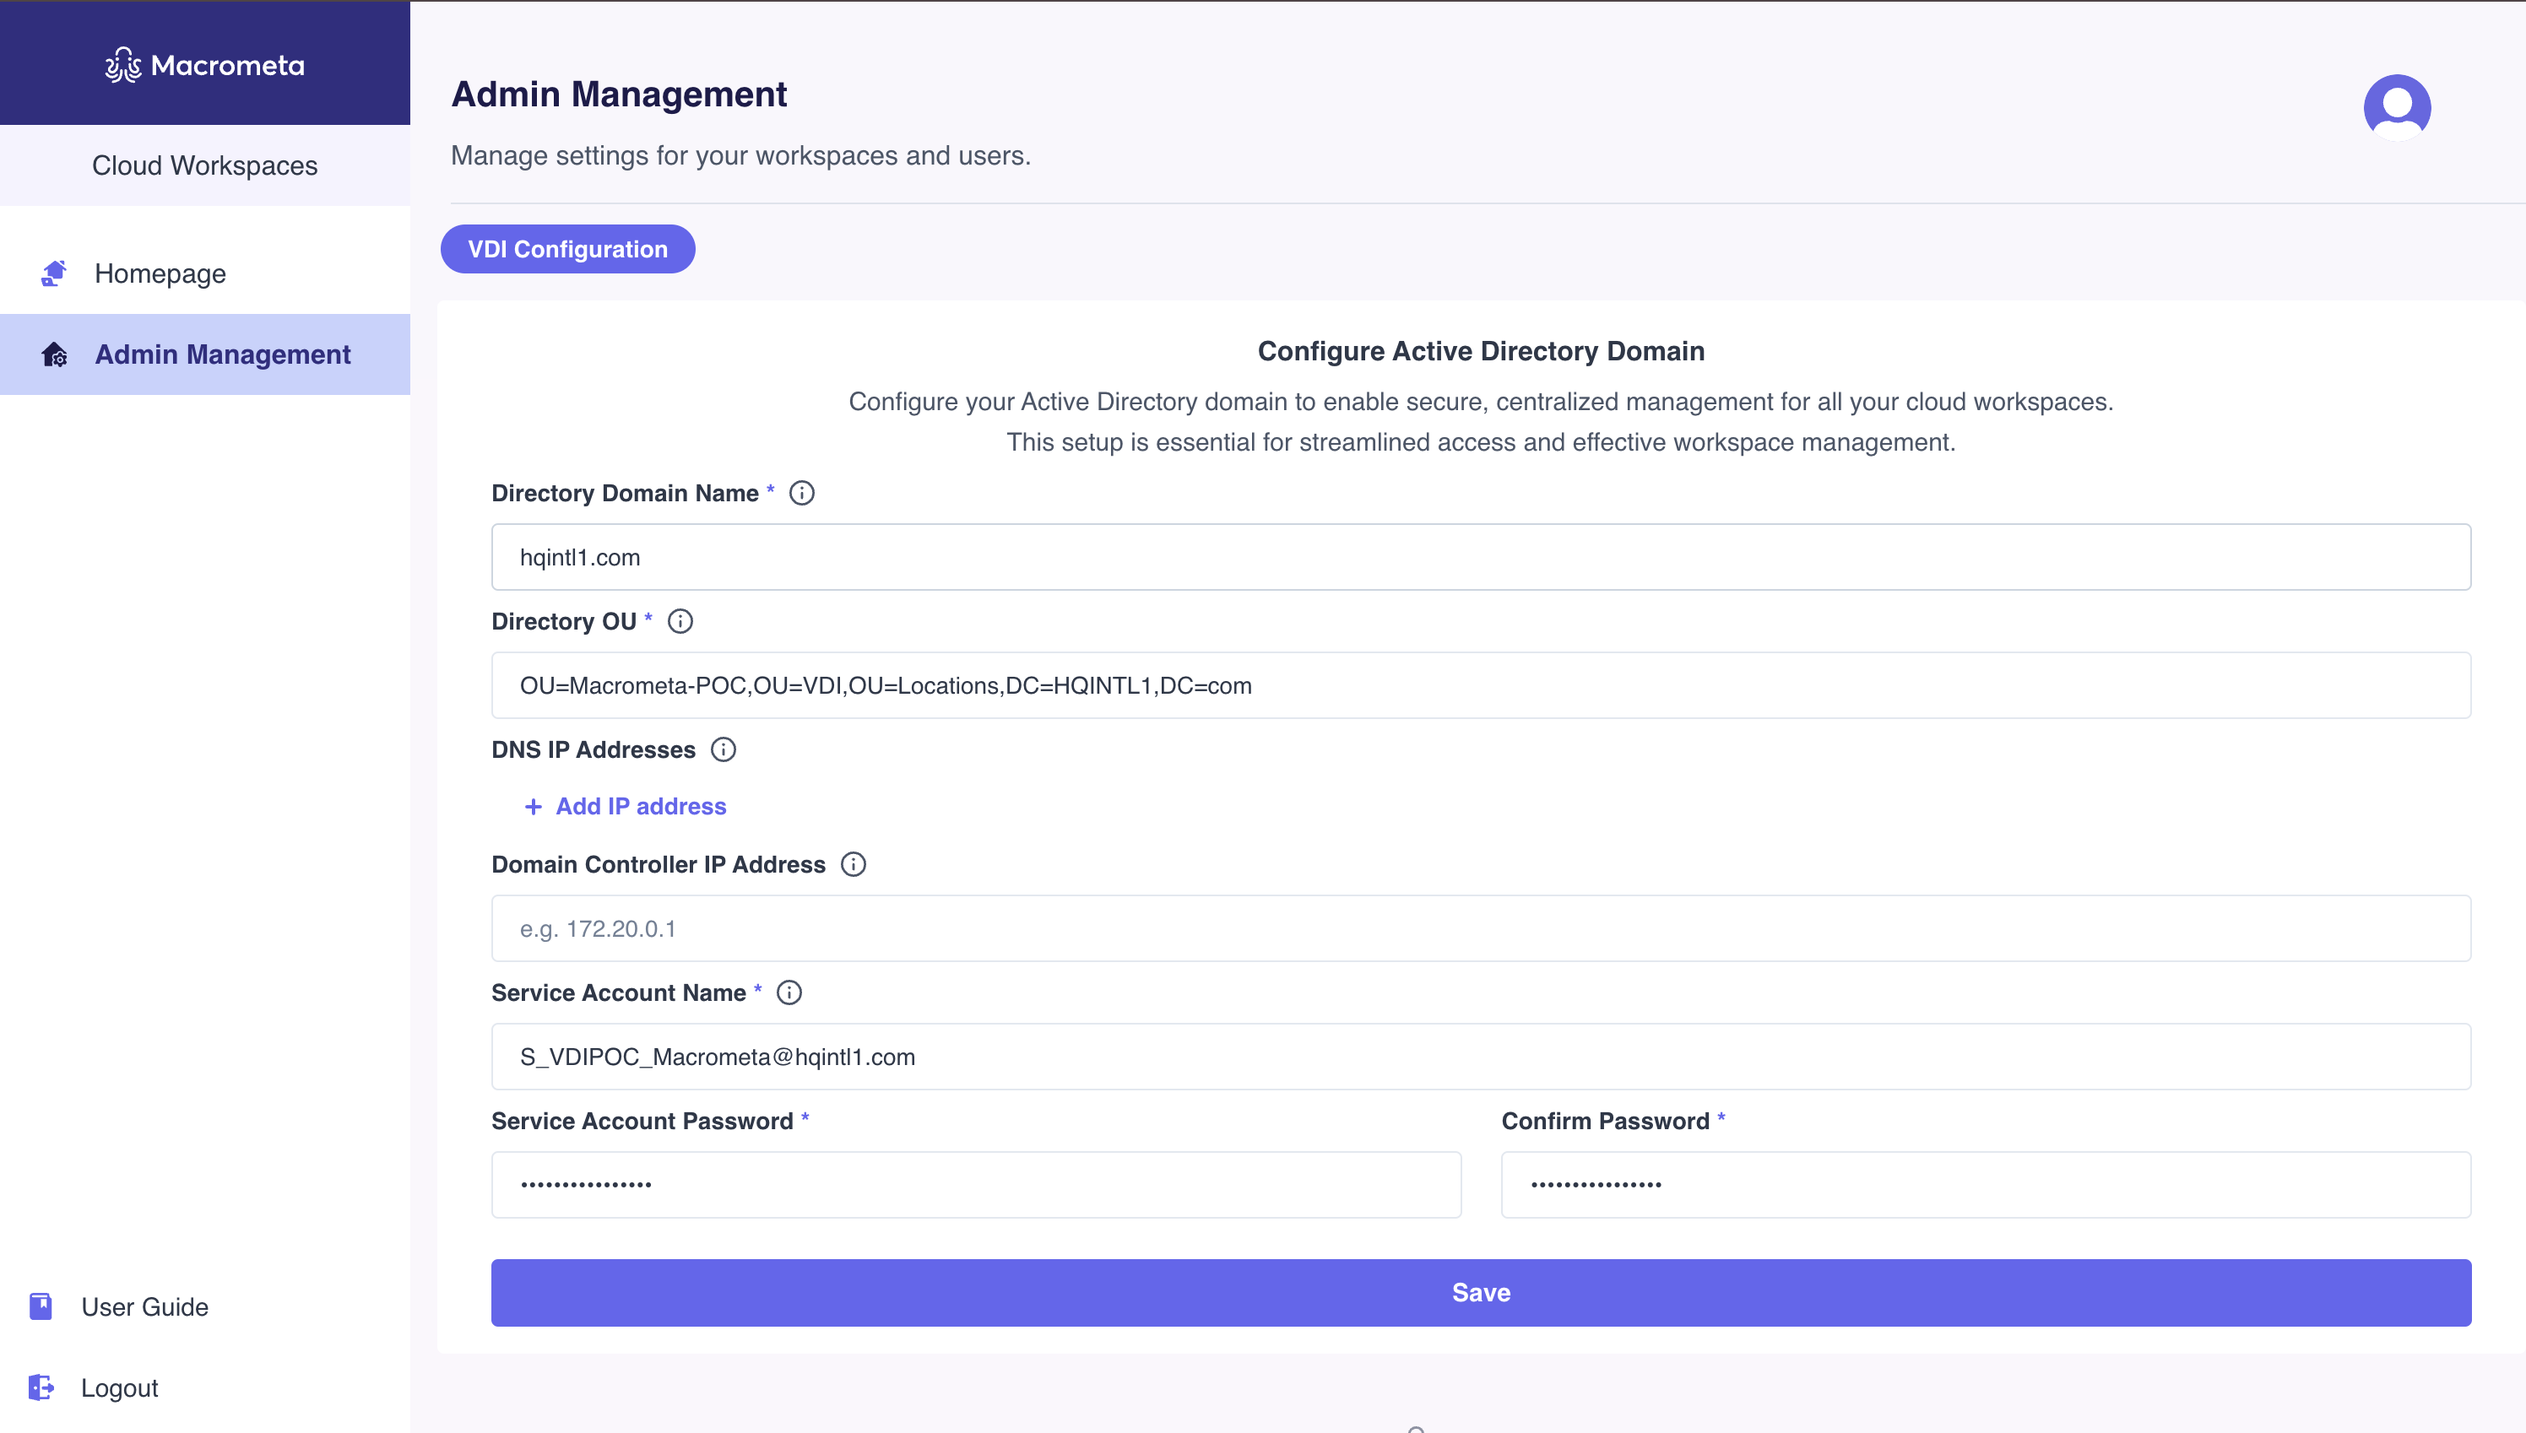
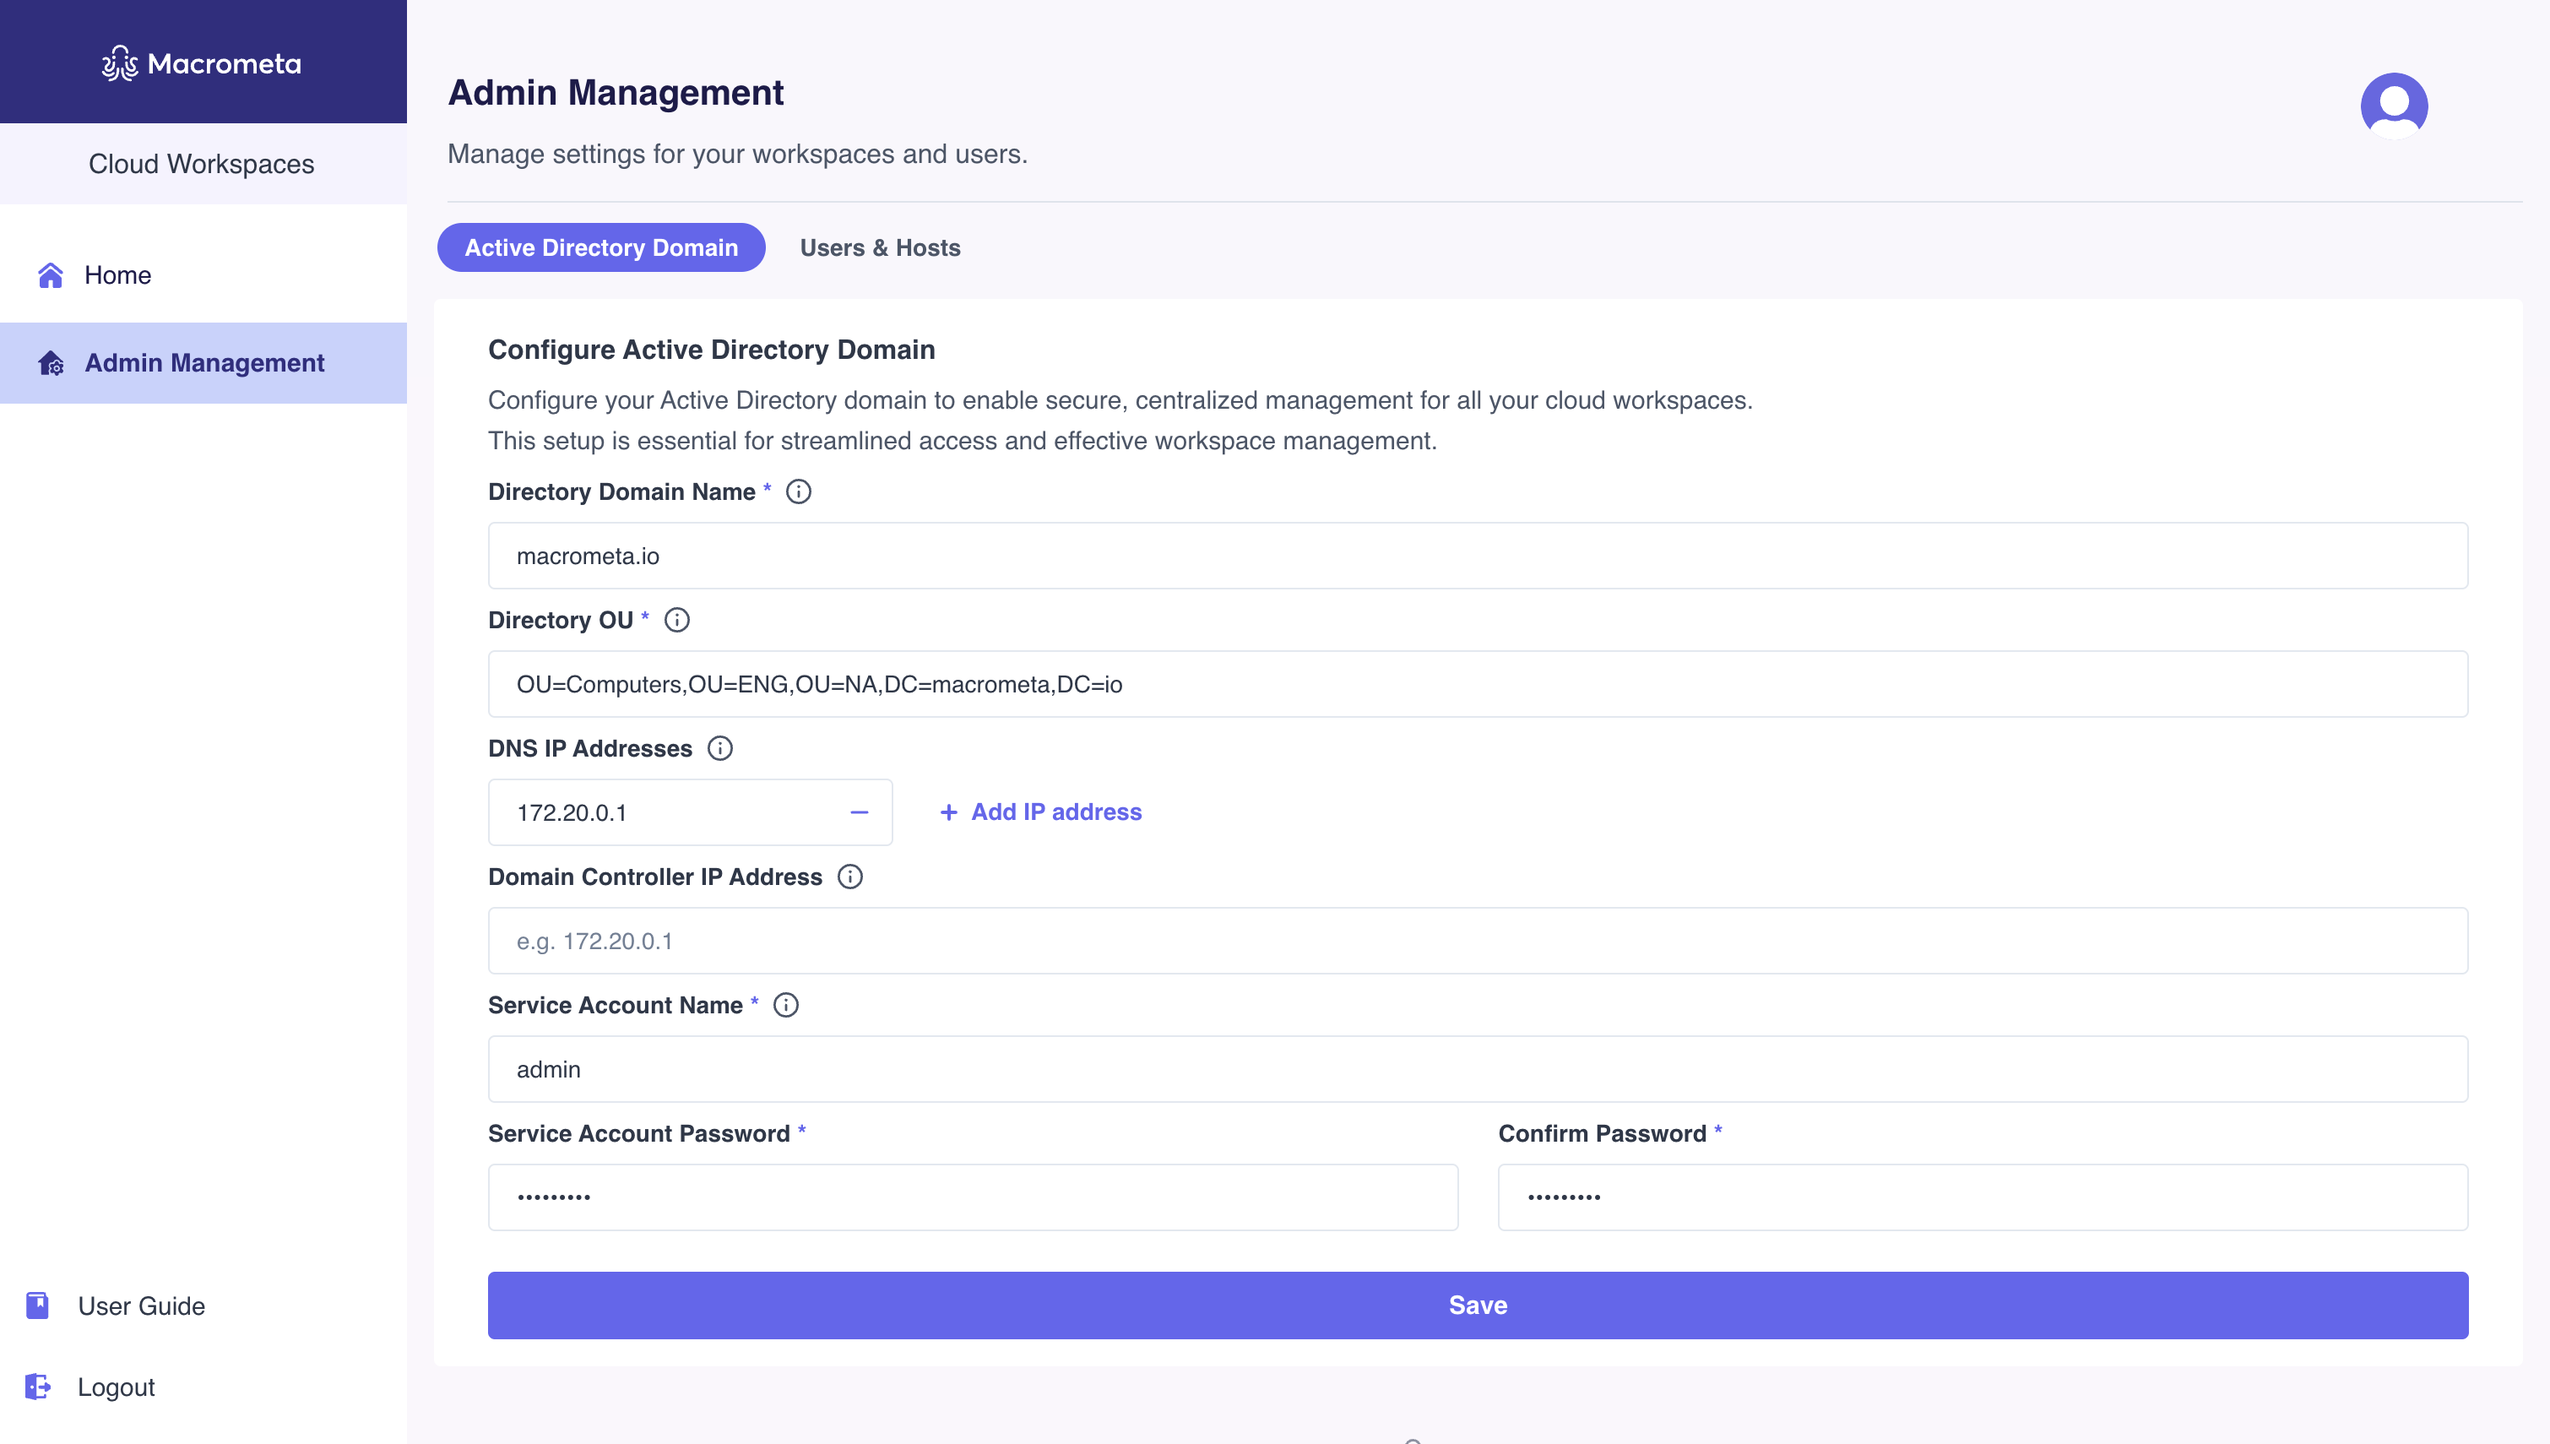
Document Users and Hosts

diff --git a/docs/wu-runbook/workspace-manangement.md b/docs/wu-runbook/workspace-manangement.md
@@ -5,10 +5,50 @@ sidebar_label: Workspace Management
 ---
 
 
-Cloud Workspaces provides a management dashboard for admins to configure their Active Directory. This setup is a one-time task that requires expertise in Active Directory and should be performed by qualified admins.
-
-![admin-dashboard](/img/runbook-images/management-dashboard.png)
+Cloud Workspaces provides a centralized management dashboard for administrators to configure workspace settings and manage hosts. Navigate to **Admin Management** from the sidebar to access this dashboard.
 
 :::note
 Regular users won't find the management dashboard as it is only available for admin users.
 :::
+
+
+## Active Directory Domain
+
+The **Active Directory Domain** tab allows admins to configure the Active Directory for the workspace. This setup is a one-time process that links your organization's user directory to the workspace, enabling effective user authentication and access management.
+
+![add-dashboard](/img/runbook-images/management-dashboard.png)
+
+
+To configure the Active Directory for your workspace:
+1. Navigate to the **Active Directory Domain** tab.
+2. Update the required fields with your Active Directory configurations.
+3. Save the configuration once the setup is complete.
+
+:::tip
+Only qualified admins with expertise in Active Directory should perform this task.
+:::
+
+## Users & Hosts
+
+The **Users & Hosts** tab enables admins to manage user-to-host assignments in [VDI](./vdi/index.md). Hosts in the workspace are displayed with the following details:
+- **Host Name**
+- **Host Type** (persistent or non-persistent)
+- **Region**
+- **Username** of the assigned user (if applicable)
+
+Admins can assign users to hosts, change assignments, or unassign users as needed. Additionally, they can search for users or hosts and filter hosts based on their assignment status or host type.
+
+![user-dashboard](/img/runbook-images/user-dashboard.png)
+
+
+To configure a host, 
+
+1. Go to the **Users & Hosts** tab.
+2. Use the search bar to find users or hosts by their hostname, username, or region.
+3. Apply filters to view unassigned hosts or other specific configurations.
+4. Continue with the desired action:
+   1. **Assign**: Select a host and assign a user.
+   2. **Change user**: Update the user assigned to a host.
+   3. **Unassign**: Remove a user from a host.
+
+By using the **Users & Hosts** tab, admins can efficiently manage their workspace configurations for optimal resource allocation and user access.
